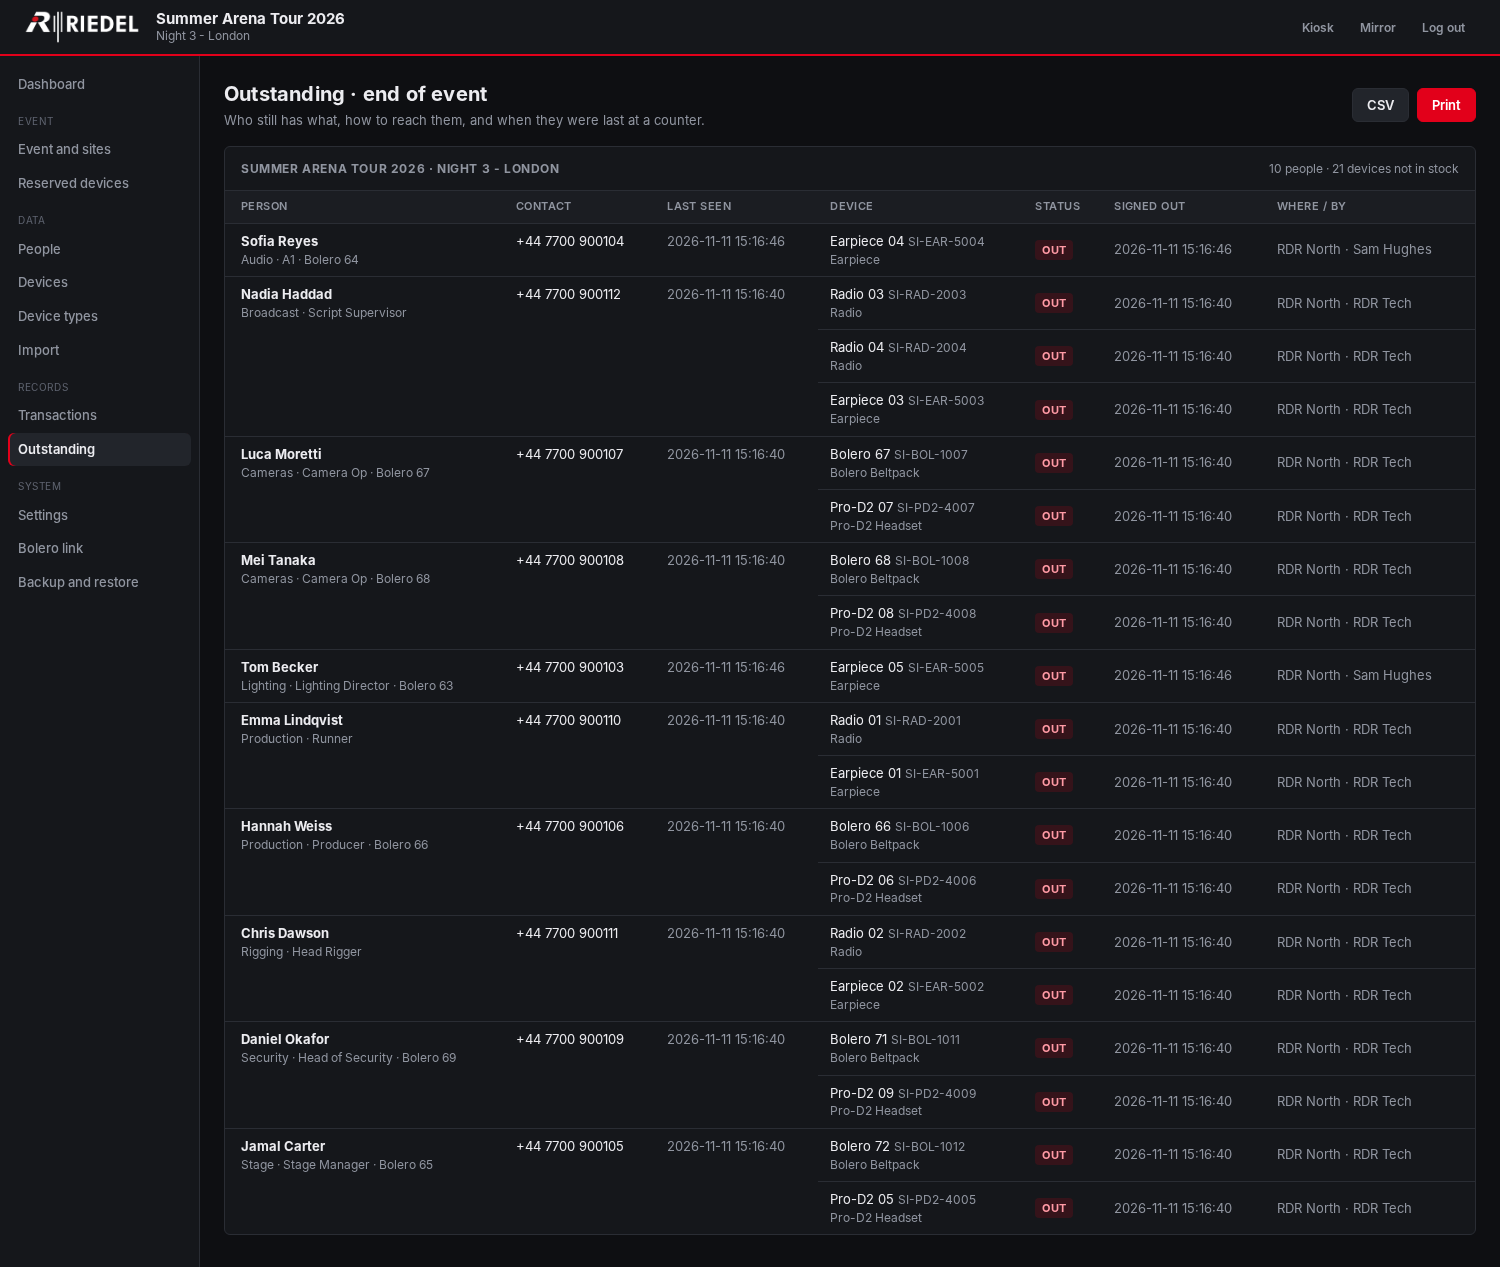
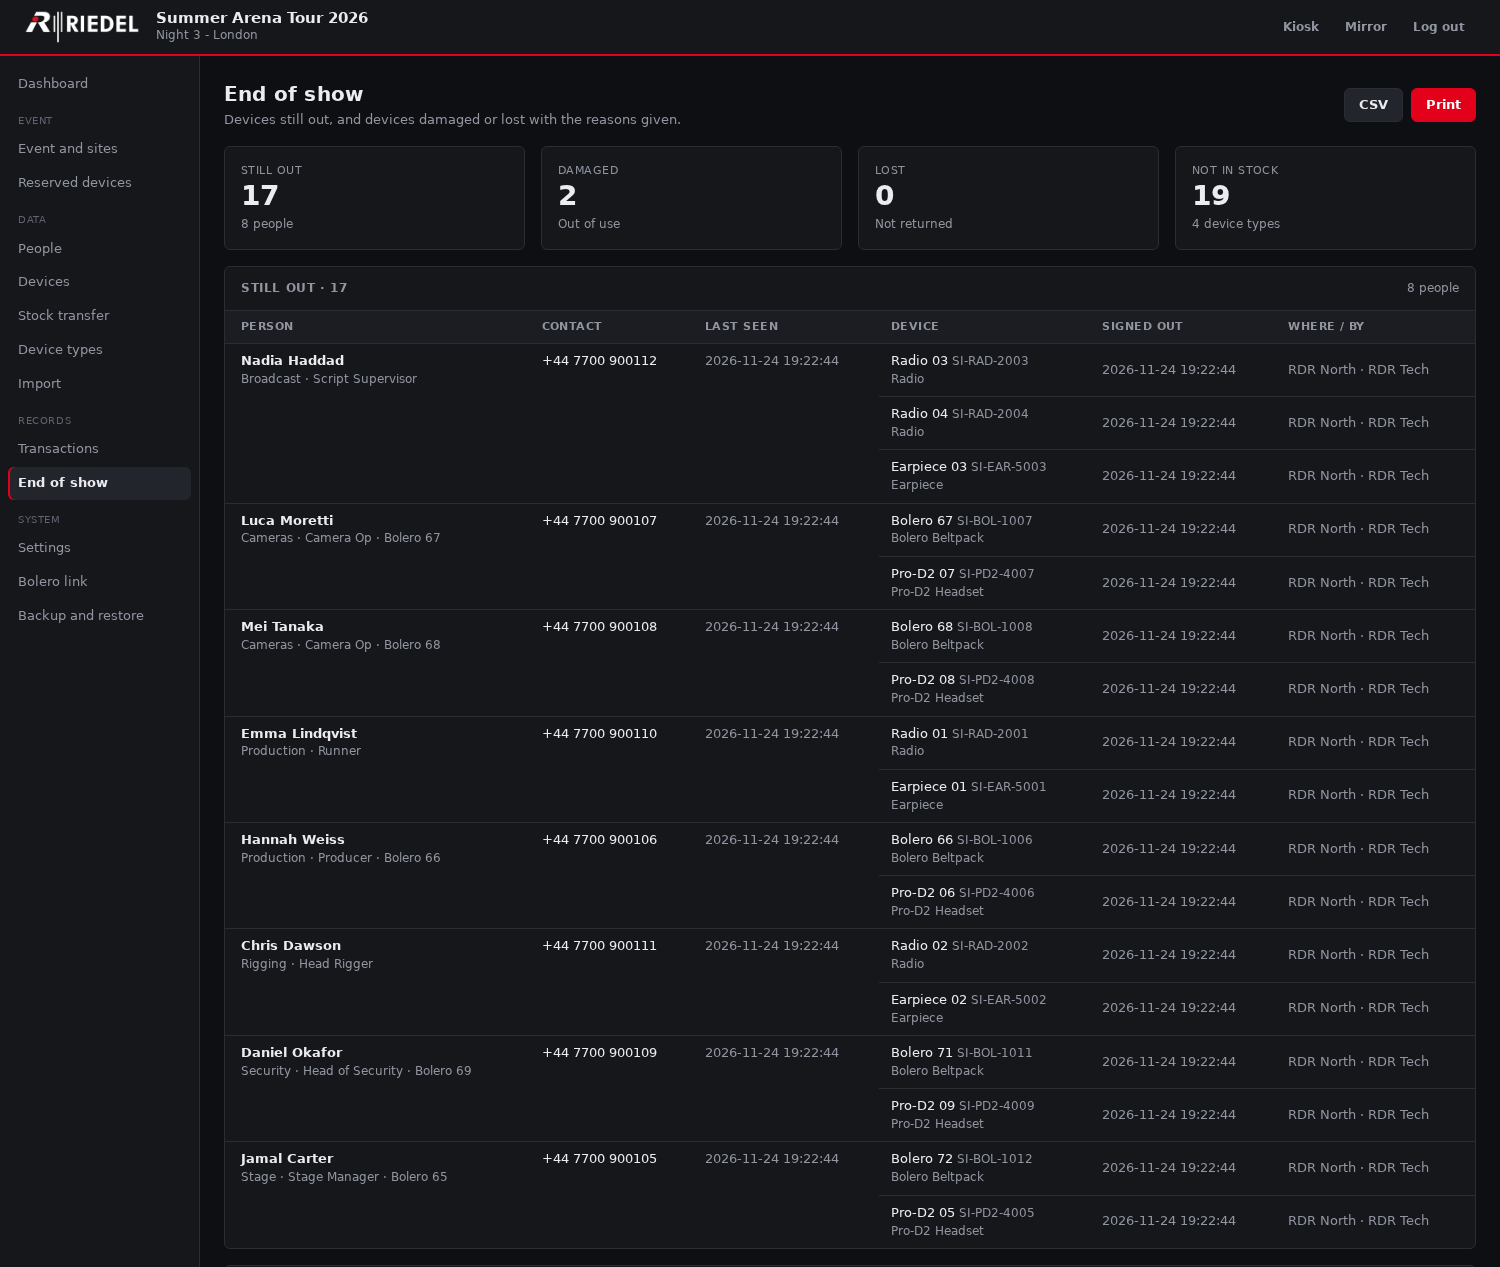
End of show report: still out, damaged and lost with reasons; v0.9.15
The Reports page becomes End of show. It lists devices still out by
person, damaged and lost devices with the reason, note, who last had
them and who reported it, and totals by type. A switch picks both,
outstanding only, or damaged and lost only, and the CSV and print
follow it.

Claude-Session: https://claude.ai/code/session_0122Ys29YotHazN4ztq74Dcs

diff --git a/app/templates/admin/reports.html b/app/templates/admin/reports.html
@@ -1,26 +1,65 @@
 {% extends "admin/base_admin.html" %}
-{% block title %}Outstanding{% endblock %}
+{% block title %}End of show{% endblock %}
 {% block admin %}
-<div class="page-head"><div><h1>Outstanding · end of event</h1><div class="sub">Who still has what, how to reach them, and when they were last at a counter.</div></div>
-  <div class="row"><a class="btn" href="/admin/reports?format=csv&report=endofevent">CSV</a><button class="btn primary" type="button" data-print>Print</button></div></div>
+{% set n_bad = eos.damaged | length + eos.lost | length %}
+<div class="page-head"><div><h1>End of show</h1><div class="sub">Devices still out, and devices damaged or lost with the reasons given.</div></div>
+  <div class="row"><nav class="seg" aria-label="Show">{% for k, label in [('both', 'Both'), ('out', 'Outstanding'), ('damaged', 'Damaged and lost')] %}<a href="/admin/reports?show={{ k }}" class="{{ 'on' if show == k }}">{{ label }}</a>{% endfor %}</nav>
+    <a class="btn" href="/admin/reports?format=csv&report=endofshow&show={{ show }}">CSV</a><button class="btn primary" type="button" data-print>Print</button></div></div>
 
 <div class="print-head">
-  <div><b>{{ event.name or 'RDR' }}</b>{% if event.show_name %} · {{ event.show_name }}{% endif %}</div>
-  <div>Outstanding devices · {{ end_of_event | length }} people · {{ outstanding | length }} devices · printed {{ now }}</div>
+  <div><b>{{ event.name or 'RDR' }}</b>{% if event.show_name %} · {{ event.show_name }}{% endif %} · {{ {'both': 'End of show', 'out': 'Outstanding devices', 'damaged': 'Damaged and lost devices'}[show] }}</div>
+  <div>{% if show != 'damaged' %}{{ eos.n_out }} still out{% endif %}{% if show == 'both' %} · {% endif %}{% if show != 'out' %}{{ eos.damaged | length }} damaged · {{ eos.lost | length }} lost{% endif %} · printed {{ now }}</div>
 </div>
 
-<div class="panel report"><div class="panel-head"><h2>{{ event.name or 'RDR' }}{% if event.show_name %} · {{ event.show_name }}{% endif %}</h2><span class="muted sm">{{ end_of_event | length }} people · {{ outstanding | length }} devices not in stock</span></div>
+<div class="grid cols-4 mb report-stats">
+  <div class="panel stat"><div class="label">Still out</div><div class="value">{{ eos.n_out }}</div><div class="sub">{{ eos.still_out | length }} people</div></div>
+  <div class="panel stat"><div class="label">Damaged</div><div class="value">{{ eos.damaged | length }}</div><div class="sub">Out of use</div></div>
+  <div class="panel stat"><div class="label">Lost</div><div class="value">{{ eos.lost | length }}</div><div class="sub">Not returned</div></div>
+  <div class="panel stat"><div class="label">Not in stock</div><div class="value">{{ eos.n_out + n_bad }}</div><div class="sub">{{ eos.by_type | length }} device types</div></div>
+</div>
+
+{% if show != 'damaged' %}
+<div class="panel report mb{{ ' is-empty' if not eos.still_out }}"><div class="panel-head"><h2>Still out · {{ eos.n_out }}</h2><span class="muted sm">{{ eos.still_out | length }} people</span></div>
+  <h2 class="print-title">Still out · {{ eos.n_out }}</h2>
   <div class="table-wrap full"><table>
-    <thead><tr><th>Person</th><th>Contact</th><th>Last seen</th><th>Device</th><th>Status</th><th>Signed out</th><th>Where / by</th></tr></thead>
-    <tbody>{% for p in end_of_event %}{% set last = loop.last %}{% for d in p['items'] %}
+    <thead><tr><th>Person</th><th>Contact</th><th>Last seen</th><th>Device</th><th>Signed out</th><th>Where / by</th></tr></thead>
+    <tbody>{% for p in eos.still_out %}{% set last = loop.last %}{% for d in p['items'] %}
     <tr{% if last %} class="last"{% endif %}>{% if loop.first %}<td rowspan="{{ p['items'] | length }}" class="vtop"><a href="/admin/people/{{ p.person_id }}"><b>{{ p.name }}</b></a><div class="muted sm">{{ [p.dept, p.role] | select | join(' · ') }}{% if p.bolero_id %} · Bolero {{ p.bolero_id }}{% endif %}</div></td>
       <td rowspan="{{ p['items'] | length }}" class="mono vtop">{{ p.phone }}</td>
       <td rowspan="{{ p['items'] | length }}" class="mono muted vtop">{{ p.last_seen or '' }}</td>{% endif %}
       <td class="sub"><a href="/admin/devices/{{ d.device_id }}">{{ d.label or d.si }}</a> <span class="si">{{ d.si }}</span><div class="muted sm">{{ d.type_name }}</div></td>
-      <td><span class="badge {{ d.status }}">{{ d.status }}</span></td>
       <td class="mono muted">{{ d.issued_at or '' }}</td>
       <td class="muted">{{ [d.issued_site, d.issued_by] | select | join(' · ') }}</td></tr>
     {% endfor %}{% endfor %}
-    {% if not end_of_event %}<tr><td colspan="7" class="empty">Nothing outstanding. Every device is back.</td></tr>{% endif %}</tbody>
+    {% if not eos.still_out %}<tr><td colspan="6" class="empty">Nothing still out. Every device is back.</td></tr>{% endif %}</tbody>
   </table></div></div>
+
+{% endif %}
+
+{% if show != 'out' %}
+{% for title, rows, empty in [('Damaged', eos.damaged, 'No damaged devices.'), ('Lost', eos.lost, 'No lost devices.')] %}
+<div class="panel report mb{{ ' is-empty' if not rows }}"><div class="panel-head"><h2>{{ title }} · {{ rows | length }}</h2></div>
+  <h2 class="print-title">{{ title }} · {{ rows | length }}</h2>
+  <div class="table-wrap full"><table>
+    <thead><tr><th>Device</th><th>Reason</th><th>Last with</th><th>Reported</th><th>Where / by</th></tr></thead>
+    <tbody>{% for d in rows %}
+    <tr><td class="sub"><a href="/admin/devices/{{ d.device_id }}">{{ d.label or d.si }}</a> <span class="si">{{ d.si }}</span><div class="muted sm">{{ d.type_name }}{% if d.home_site %} · {{ d.home_site }}{% endif %}</div></td>
+      <td>{% if d.reason %}<b>{{ d.reason }}</b>{% endif %}{% if d.note %}<div class="muted sm">{{ d.note }}</div>{% endif %}{% if not d.reason and not d.note %}<span class="muted">No reason given</span>{% endif %}</td>
+      <td>{% if d.person_id %}<a href="/admin/people/{{ d.person_id }}">{{ d.person_name }}</a><div class="muted sm">{{ [d.person_dept, d.person_phone] | select | join(' · ') }}{% if d.still_held %} · still with them{% endif %}</div>{% else %}<span class="muted">Not out at the time</span>{% endif %}</td>
+      <td class="mono muted">{{ d.flagged_at or '' }}</td>
+      <td class="muted">{{ [d.flagged_site, d.flagged_by] | select | join(' · ') }}</td></tr>
+    {% endfor %}
+    {% if not rows %}<tr><td colspan="5" class="empty">{{ empty }}</td></tr>{% endif %}</tbody>
+  </table></div></div>
+{% endfor %}
+{% endif %}
+
+{% if eos.by_type %}
+<div class="panel report"><div class="panel-head"><h2>By type</h2></div>
+  <h2 class="print-title">By type</h2>
+  <div class="table-wrap full"><table>
+    <thead><tr><th>Type</th>{% if show != 'damaged' %}<th class="num">Still out</th>{% endif %}{% if show != 'out' %}<th class="num">Damaged</th><th class="num">Lost</th>{% endif %}{% if show == 'both' %}<th class="num">Not in stock</th>{% endif %}</tr></thead>
+    <tbody>{% for t in eos.by_type %}{% set n = (t.n_out if show != 'damaged' else 0) + (t.n_damaged + t.n_lost if show != 'out' else 0) %}{% if n %}<tr><td>{{ t.type_name }}</td>{% if show != 'damaged' %}<td class="num">{{ t.n_out or '' }}</td>{% endif %}{% if show != 'out' %}<td class="num">{{ t.n_damaged or '' }}</td><td class="num">{{ t.n_lost or '' }}</td>{% endif %}{% if show == 'both' %}<td class="num"><b>{{ n }}</b></td>{% endif %}</tr>{% endif %}{% endfor %}</tbody>
+  </table></div></div>
+{% endif %}
 {% endblock %}

diff --git a/app/static/css/rdr.css b/app/static/css/rdr.css
@@ -358,6 +358,10 @@ td.actions { white-space: nowrap; text-align: right; }
 .seg { display: inline-flex; border: 1px solid var(--border); border-radius: var(--radius); overflow: hidden; }
 .seg button { background: var(--panel-2); border: 0; height: 28px; padding: 0 10px; cursor: pointer; font-weight: 600; font-size: 12px; color: var(--muted); }
 .seg button.on { background: var(--panel-3); color: var(--text); }
+.seg a { display: inline-flex; align-items: center; background: var(--panel-2); height: 34px; padding: 0 12px; font-weight: 600; font-size: 13px; color: var(--muted); }
+.seg a + a { border-left: 1px solid var(--border); }
+.seg a:hover { color: var(--text); text-decoration: none; }
+.seg a.on { background: var(--panel-3); color: var(--text); }
 
 /* ---- start screen ---------------------------------------------------------- */
 .start { min-height: 100vh; display: flex; flex-direction: column; align-items: center; justify-content: center; padding: var(--s6) var(--s4); gap: var(--s5); }
@@ -540,7 +544,7 @@ td.saved { animation: savedFade .4s ease-out 1.2s forwards; }
   .content .panel table { min-width: 640px; }
 }
 
-.print-head { display: none; }
+.print-head, .print-title { display: none; }
 @media print {
   @page { size: A4 landscape; margin: 8mm; }
   html { font-size: 9px; }
@@ -549,6 +553,10 @@ td.saved { animation: savedFade .4s ease-out 1.2s forwards; }
   .admin, .admin-main, .content { display: block; padding: 0; margin: 0; max-width: none; grid-template-columns: 1fr; }
   .print-head { display: flex; justify-content: space-between; align-items: baseline; gap: 12px; border-bottom: 1px solid #000; padding-bottom: 3px; margin-bottom: 4px; font-size: 10px; }
   .print-head b { font-size: 13px; }
+  .report-stats { display: none !important; }
+  .print-title { display: block; font-size: 11px; margin: 8px 0 2px; break-after: avoid; page-break-after: avoid; }
+  .report.is-empty .table-wrap { display: none; }
+  .panel.report.mb { margin-bottom: 6px; }
   .panel, .table-wrap { border: 0; border-radius: 0; background: none; box-shadow: none; max-height: none; overflow: visible; }
   table { width: 100%; border-collapse: collapse; font-size: 9px; }
   th, td { padding: 2px 5px; border-bottom: 1px solid #ccc; color: #000; line-height: 1.25; vertical-align: top; }

diff --git a/app/templates/admin/base_admin.html b/app/templates/admin/base_admin.html
@@ -21,7 +21,7 @@
     <a href="/admin/import" class="{{ 'on' if active == 'import' }}">Import</a>
     <div class="group">Records</div>
     <a href="/admin/transactions" class="{{ 'on' if active == 'transactions' }}">Transactions</a>
-    <a href="/admin/reports" class="{{ 'on' if active == 'reports' }}">Outstanding</a>
+    <a href="/admin/reports" class="{{ 'on' if active == 'reports' }}">End of show</a>
     <div class="group">System</div>
     <a href="/admin/settings" class="{{ 'on' if active == 'settings' }}">Settings</a>
     <a href="/admin/bolero" class="{{ 'on' if active == 'bolero' }}">Bolero link</a>

diff --git a/app/services/reports.py b/app/services/reports.py
@@ -86,7 +86,7 @@ def activity_by_site(db: sqlite3.Connection) -> list[sqlite3.Row]:
     ).fetchall()
 
 
-def end_of_event(db: sqlite3.Connection) -> list[dict]:
+def end_of_event(db: sqlite3.Connection, statuses: tuple[str, ...] = ("out", "lost", "damaged")) -> list[dict]:
     """Who still has what: one entry per person holding devices, with contact details,
     when they were last seen at a counter, and when/where each device was issued."""
     rows = db.execute(
@@ -101,9 +101,10 @@ def end_of_event(db: sqlite3.Connection) -> list[dict]:
         LEFT JOIN transactions x ON x.id = (SELECT MAX(id) FROM transactions WHERE device_id = d.id AND action IN ('out','out_reassign','swap_in'))
         LEFT JOIN sites s ON s.id = x.site_id
         LEFT JOIN techs tc ON tc.id = x.tech_id
-        WHERE d.status <> 'in'
+        WHERE d.status IN ({})
         ORDER BY COALESCE(NULLIF(p.dept,''), 'zzz'), p.name, t.sort_order, d.label
-        """
+        """.format(",".join("?" * len(statuses))),
+        statuses,
     ).fetchall()
     people: dict[int, dict] = {}
     for r in rows:
@@ -113,3 +114,55 @@ def end_of_event(db: sqlite3.Connection) -> list[dict]:
         })
         entry["items"].append({k: r[k] for k in ("device_id", "si", "label", "status", "type_name", "issued_at", "issued_site", "issued_by")})
     return list(people.values())
+
+
+def flagged(db: sqlite3.Connection, status: str) -> list[dict]:
+    """Devices currently damaged or lost, with the reason and note from when they were flagged,
+    who last had them and which tech and site reported it."""
+    rows = db.execute(
+        """
+        SELECT d.id AS device_id, d.si, d.label, d.status, d.linked_id, t.name AS type_name, hs.name AS home_site,
+               x.ts AS flagged_at, x.reason, x.note, s.name AS flagged_site, tc.display_name AS flagged_by,
+               COALESCE(p.id, xp.id) AS person_id, COALESCE(p.name, xp.name) AS person_name,
+               COALESCE(p.dept, xp.dept) AS person_dept, COALESCE(p.phone, xp.phone) AS person_phone,
+               (d.holder_id IS NOT NULL) AS still_held
+        FROM devices d
+        JOIN device_types t ON t.id = d.type_id
+        LEFT JOIN sites hs ON hs.id = d.site_id
+        LEFT JOIN people p ON p.id = d.holder_id
+        LEFT JOIN transactions x ON x.id = (SELECT MAX(id) FROM transactions WHERE device_id = d.id AND action = d.status)
+        LEFT JOIN people xp ON xp.id = x.person_id
+        LEFT JOIN sites s ON s.id = x.site_id
+        LEFT JOIN techs tc ON tc.id = x.tech_id
+        WHERE d.status = ?
+        ORDER BY t.sort_order, t.name, d.label, d.si
+        """,
+        (status,),
+    ).fetchall()
+    return [dict(r) for r in rows]
+
+
+def by_type(db: sqlite3.Connection) -> list[sqlite3.Row]:
+    """Counts of devices not in stock, per type, for the end of show summary."""
+    return db.execute(
+        """
+        SELECT t.name AS type_name, COUNT(d.id) AS total,
+               SUM(CASE WHEN d.status = 'out' THEN 1 ELSE 0 END) AS n_out,
+               SUM(CASE WHEN d.status = 'damaged' THEN 1 ELSE 0 END) AS n_damaged,
+               SUM(CASE WHEN d.status = 'lost' THEN 1 ELSE 0 END) AS n_lost
+        FROM device_types t JOIN devices d ON d.type_id = t.id
+        GROUP BY t.id HAVING n_out + n_damaged + n_lost > 0 ORDER BY t.sort_order, t.name
+        """
+    ).fetchall()
+
+
+def end_of_show(db: sqlite3.Connection) -> dict:
+    """Everything the end of show handover needs: who still has what, and what came back damaged or went missing."""
+    still_out = end_of_event(db, statuses=("out",))
+    return {
+        "still_out": still_out,
+        "n_out": sum(len(p["items"]) for p in still_out),
+        "damaged": flagged(db, "damaged"),
+        "lost": flagged(db, "lost"),
+        "by_type": by_type(db),
+    }

diff --git a/app/routers/admin.py b/app/routers/admin.py
@@ -1002,11 +1002,26 @@ def settings_https(action: str = Form("enable"), https_port: int = Form(8443), e
 # -- reports ------------------------------------------------------------------
 
 @router.get("/reports", dependencies=[Depends(require_admin)])
-def reports_page(request: Request, format: str = "html", report: str = "outstanding"):
+def reports_page(request: Request, format: str = "html", report: str = "outstanding", show: str = "both"):
+    show = show if show in ("both", "out", "damaged") else "both"
     with get_db() as db:
         if format == "csv":
             buf = io.StringIO(); w = csv.writer(buf)
-            if report == "endofevent":
+            if report == "endofshow":
+                eos = reports.end_of_show(db)
+                w.writerow(["Section", "Person", "Department", "Role", "Phone", "Bolero ID", "Device", "SI", "Type",
+                            "Reason", "Note", "When", "Site", "Tech", "Last seen"])
+                for person in (eos["still_out"] if show != "damaged" else []):
+                    for d in person["items"]:
+                        w.writerow(["Still out", person["name"], person["dept"], person["role"], person["phone"], person["bolero_id"],
+                                    d["label"], d["si"], d["type_name"], "", "", d["issued_at"], d["issued_site"], d["issued_by"], person["last_seen"]])
+                for section, rows in ((("Damaged", eos["damaged"]), ("Lost", eos["lost"])) if show != "out" else ()):
+                    for d in rows:
+                        w.writerow([section, d["person_name"] or "", d["person_dept"] or "", "", d["person_phone"] or "", d["linked_id"] or "",
+                                    d["label"], d["si"], d["type_name"], d["reason"] or "", d["note"] or "", d["flagged_at"] or "",
+                                    d["flagged_site"] or "", d["flagged_by"] or "", ""])
+                name = {"both": "rdr-end-of-show.csv", "out": "rdr-outstanding.csv", "damaged": "rdr-damaged-lost.csv"}[show]
+            elif report == "endofevent":
                 w.writerow(["Person", "Department", "Role", "Phone", "Bolero ID", "Last seen", "Device", "SI", "Type", "Status", "Issued at", "Issued at site", "Issued by"])
                 for person in reports.end_of_event(db):
                     for d in person["items"]:
@@ -1026,8 +1041,7 @@ def reports_page(request: Request, format: str = "html", report: str = "outstand
                 name = "rdr-outstanding.csv"
             buf.seek(0)
             return StreamingResponse(iter([buf.getvalue()]), media_type="text/csv", headers={"Content-Disposition": f'attachment; filename="{name}"'})
-        ctx = {"end_of_event": reports.end_of_event(db), "outstanding": reports.outstanding(db),
-               "now": datetime.now().strftime("%d %b %Y %H:%M")}
+        ctx = {"eos": reports.end_of_show(db), "show": show, "now": datetime.now().strftime("%d %b %Y %H:%M")}
     return render(request, "admin/reports.html", active="reports", **ctx)
 
 

diff --git a/tests/test_z_phase2.py b/tests/test_z_phase2.py
@@ -21,7 +21,20 @@ def prepared(client):
 
 def test_reports_pages_and_csv(client):
     r = client.get("/admin/reports")
-    assert r.status_code == 200 and "Outstanding" in r.text and "Night 3" in r.text
+    assert r.status_code == 200 and "End of show" in r.text and "Night 3" in r.text
+    assert "Broken boom arm" in r.text and "No audio on channel B" in r.text and "Damaged · 2" in r.text
+    r = client.get("/admin/reports?format=csv&report=endofshow")
+    lines = r.text.splitlines()
+    assert lines[0].startswith("Section,") and any(l.startswith("Still out,") for l in lines)
+    assert any(l.startswith("Damaged,") and "Broken boom arm" in l for l in lines)
+    r = client.get("/admin/reports?show=out")
+    assert "Still out" in r.text and "Broken boom arm" not in r.text
+    r = client.get("/admin/reports?show=damaged")
+    assert "Broken boom arm" in r.text and "Signed out</th>" not in r.text
+    lines = client.get("/admin/reports?format=csv&report=endofshow&show=out").text.splitlines()
+    assert any(l.startswith("Still out,") for l in lines) and not any(l.startswith("Damaged,") for l in lines)
+    lines = client.get("/admin/reports?format=csv&report=endofshow&show=damaged").text.splitlines()
+    assert any(l.startswith("Damaged,") for l in lines) and not any(l.startswith("Still out,") for l in lines)
     assert "Bolero ID" in client.get("/admin/reports?format=csv&report=endofevent").text
     r = client.get("/admin/reports?format=csv&report=stock")
     assert r.headers["content-type"].startswith("text/csv") and "Shared in" in r.text

diff --git a/app/__init__.py b/app/__init__.py
@@ -1,2 +1,2 @@
 """RDR - Radio Distribution Room sign in / sign out application."""
-__version__ = "0.9.14"
+__version__ = "0.9.15"

diff --git a/README.md b/README.md
@@ -386,7 +386,7 @@ devices, per-event archives, multi-event history.
 |---|---|
 | ![Phone](docs/screenshots/16-phone.png) | ![Trust](docs/screenshots/17-trust.png) |
 
-| Admin dashboard | Reports (end of event) | Device types |
+| Admin dashboard | End of show report | Device types |
 |---|---|---|
 | ![Dashboard](docs/screenshots/06-admin-dashboard.png) | ![Reports](docs/screenshots/13-admin-reports.png) | ![Types](docs/screenshots/18-admin-types.png) |
 
